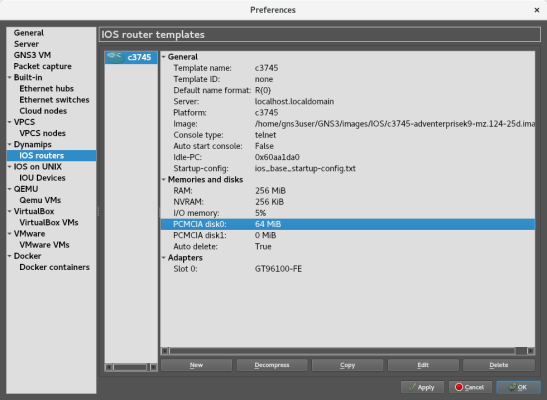
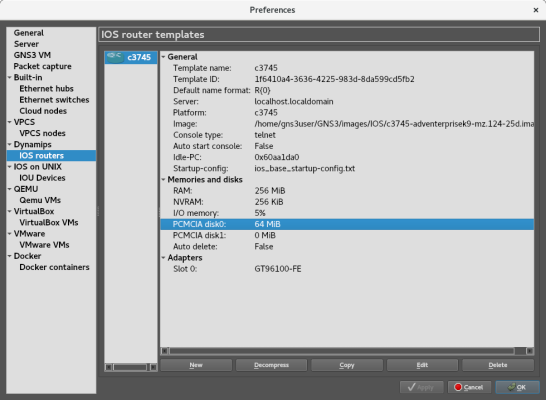
Commit to check changes to main README.md.

diff --git a/README.md b/README.md
@@ -26,11 +26,18 @@ However, there are some great tools, like Graphical Network Simulator-3 (GNS3), 
 
 This tutorial is broken down into three parts:
 
+- [What is GNS3?](#what-is-gns3 "What is GNS3?")
 - [Installing GNS3](#installing-gns3 "Installing GNS3")
 - [Setting up the environment](#setting-up-the-environment "Setting up the environment")
 - [Your First Lab](#your-first-lab "Your First Lab")
 
 >**NOTE** - Thanks to [David Bombal](https://davidbombal.com/), [Paul Browning](https://www.amazon.com/101-Labs-CompTIA-Paul-Browning/dp/1726841294 "101 Labs"), and many other incredible network gurus and coders (you know who you are :thumbsup: ).
+
+-----
+
+## What is GNS3?
+
+Graphical Network Simulator-3 is a network software emulator, written in Python. It replicates the hardware and software features of real devices in a virtual environment. It was first released in 2008, and it has been downloaded over 18 million times. While it is free and open source (GNU GPL, i.e., "copyleft"), with an active community of over two million members, it is also used by companies such as Google, NASA, AT&T, and Walmart.
 
 -----
 
@@ -350,7 +357,7 @@ A Setup wizard will appear. Select **Run appliances on my local computer** and c
 
 ![Setup Wizard](img/a05.png)
 
->**NOTE** - If a **Project** window appears instead, click on **Cancel** and scroll down to the :eyes: [below](this-will-return-you-to-the-main-gns3-graphical-user-interface).
+>**NOTE** - If a **Project** window appears instead, click on **Cancel** and scroll down to the :eyes: <a id="eyes">below</a>.
 
 In **Local sever configuration**, under **Host binding**, select the bridge's IP address (```192.168.1.1```):
 
@@ -364,7 +371,7 @@ At the **Summary** pop-up dialog, click **Finish**:
 
 ![Setup Wizard Summary](img/a08.png)
 
-> :eyes: - This will return you to the main GNS3 Graphical User Interface (GUI):
+> :eyes: - <span id="eyes">This will return you to the main GNS3 Graphical User Interface (GUI)<span>:
 
 ![Main Screen](img/a09.png)
 
@@ -380,11 +387,7 @@ However, before you start on the lab, you need to make some adjustments. From th
 
 ---
 
-Now you need to add a device. For our initial labs, you will use the Cisco 3745 Multi-Service Access Router. The Cisco 3745 is a customizable router, capable of supporting different network configurations, based on the selected cards and modules.
-
->**NOTE** - For the labs, you will use images for the Cisco 3745 Multi-Service Access Router, with Advanced Enterprise Services, and the Cisco 7206 VXR Router. Both are older routers, but their IOS's are available for download, and they are sufficient for our labs.
->
->Here are the names of the files, their hashes, and some additional information:
+Now you need to add a device. For our initial labs, you will use the Cisco 3745 Multi-Service Access Router, with Advanced Enterprise Services. The Cisco 3745 is a customizable router, capable of supporting different network configurations, based on which cards or modules are installed. It is an older router, but its IOS is available for download, and it is sufficient for conducting our labs. Here is some additional information:
 >
 >- **Cisco 3745 Multi-Service Access Router:**
 >   * IOS version 12.4.25d (Mainline):
@@ -395,15 +398,6 @@ Now you need to add a device. For our initial labs, you will use the Cisco 3745 
 >   * End-of-Sale Date: 2007-03-27
 >   * End-of-Support Date: 2012-03-27
 >   * IOS End-of-Support Date: 2016-01-31
->- **Cisco 7206 VXR 6-Slot Router:**
->   * IOS version 12.4.25g (Mainline):
->   * File Name: c7200-a3jk9s-mz.124-25g.bin
->   * MD5: 3a78cb61831b3ef1530f7402f5986556
->   * Flash Memory: 64 MB
->   * DRAM: 256MB
->   * End-of-Sale Date: 2012-09-29 
->   * End-of-Support Date: 2017-09-30
->   * IOS End-of-Support Date: 2016-01-31
 
 Here is the back of a Cisco 3745 Router:
 
@@ -412,10 +406,10 @@ Here is the back of a Cisco 3745 Router:
  In between the power supply modules, from top to bottom, the 3745 has:
  
  - Three (3) WAN interface card (WIC) slots (uncovered in the image).
- - Built-in Modules:
-     - A console (labeled in light blue) and an auxiliary port (labeled in black) on the left. By the way, when you interact with the router directly in a GNS3 console, you are using a simulated connection to the Console port.
+ - Built-in Modules (from right-to-left):
+     - A console port (labeled in light blue) and an auxiliary port (labeled in black). By the way, when you interact with the router directly in a GNS3 console, you are using a simulated connection to the Console port.
      - An optional CompactFlash (CF) memory card slot in the center, which can use 32, 64, and 128 MiB memory cards. This card will correspond to Personal Computer Memory Card International Association (PCMCIA) disk1, accessible as ```slot0:``` in the IOS; more about this later.
-     - The **GT96100-FE Network Adapter**, with two (2) built-in FastEthernet interfaces (GT96100-FE), which correspond to FastEthernet 0/0 and 0/1 (labeled in yellow), on the right.
+     - The **GT96100-FE Network Adapter**, with two (2) built-in FastEthernet interfaces (GT96100-FE), which correspond to FastEthernet 0/0 and 0/1 (labeled in yellow).
 - Four (4) network adapter module slots (two uncovered and two covered in the image).
 
 I will explain how to fill in the slots later in this tutorial.
@@ -468,7 +462,7 @@ Practice filling open slots with an adapter, but ***DO NOT CLICK ON NEXT!***:
 
 ![Network Adapters](img/a20b.png)
 
-Did you notice that, aside from the built-in GT96100-FE adapter, there are six open slots, but you can only use four of them? That is because the 3745 only has four open slots for network adapters.
+Did you notice that, aside from the built-in GT96100-FE adapter, there are six open slots, but you can only use four of them? That is because the 3745 only has four open slots for network adapters, as shown in the picture above.
 
 Aside from the built-in network adapter, you will not need any additional network adapters yet, so empty all the slots except for **slot 0** (GNS3 will not let you delete it anyway). When complete, click on **Next >**:
 
@@ -488,15 +482,7 @@ For WAN Interface Cards (WICs), you have three slots, but only two options:
 
 ![WIC-2T Two port serial module](img/wic-2t.png)
  
-Go ahead and practice placing a WIC in open slots, but ***DO NOT CLICK ON NEXT!***:
-
-![WIC Modules](img/a21b.png)
-
-This time, since the 3745 has three WIC slots, you can populate each of them with different modules, or even the same module.
-
-You will not need any WIC modules yet, so empty all the slots and click on **Next >**:
-
-![WIC Modules](img/a21a.png)
+You will not need any WIC modules yet, so make sure all the slots are empty, and click on **Next >**.
 
 >**NOTE** - For more information on these modules and other configurations, check out the [Cisco 3700 Series Router Hardware](https://www.cisco.com/web/ANZ/cpp/refguide/hview/router/3700.html "
 CISCO 3700 Series Router Hardware View") page. If the site becomes unavailable, I have also included [a pdf copy here.](/3700.pdf "CISCO 3700 Series Router Hardware View")
@@ -514,11 +500,13 @@ Click on **Edit** to increase the device's flash memory from 0 to 64 MiB:
 
 ![Preferences](img/a23.png)
 
-In the **Dynamips IOS router template configuration** pop-up dialog, select the **Memories and disks** tab. Set the PCMCIA disk0 to 64 MiB. While you are here, make sure **Automatically delete NVRAM and disk files** is unselected; otherwise, you will have to reformat the flash memory each time you reload the device. When you are done, click **OK** to continue:
+In the **Dynamips IOS router template configuration** pop-up dialog, select the **Memories and disks** tab. Set the PCMCIA disk0 to 64 MiB. While you are here, make sure **Automatically delete NVRAM and disk files** is unselected; otherwise, you will have to reformat the flash memory each time you reload the device:
 
 ![Dynamips IOS router template configuration](img/a24.png)
 
-This brings you back to the template details window. Take a moment to look it over; there is some good information here, such as the name of the startup configuration file, which you will edit later:
+When you are done, click **OK** to continue.
+
+Once you return to the template details window, make sure the memory for **PCMCIA disk0** is **64 MiB** and **Auto delete** is set to **False**.
 
 ![Preferences](img/a25.png)
 
@@ -528,9 +516,9 @@ This brings you back to the template details window. Take a moment to look it ov
 
 >**Note** - If you like, check out [https://docs.gns3.com/docs/using-gns3/beginners/the-gns3-gui](https://docs.gns3.com/docs/using-gns3/beginners/the-gns3-gui "The GNS3 GUI") to learn the different parts of the GNS3 Graphical User Interface (GUI).
 
-Now that you have finished setting up your lab environment, click on **File** ->  **New blank project**, or press  <kbd>Ctrl</kbd>+<kbd>N</kbd>, to create a new project. If GNS3 is not running, enter ```gns3_run``` in a Terminal (the **Project** window should appear).
+Now that you have finished setting up your lab environment, click on **File** ->  **New blank project**, or press  <kbd>Ctrl</kbd>+<kbd>N</kbd>, to create a new project. If GNS3 is not running, enter ```gns3_run``` in a Terminal.
 
-A pop-up dialog will appear, asking you to create a new project. Enter ```Automation``` in the ***Name*** textbox and click the **OK** button.
+The **Project** pop-up dialog will appear, asking you to create a new project. Enter ```Automation``` in the ***Name*** textbox and click the **OK** button.
 
 ![Project Dialog](img/a10.png)
 
@@ -540,9 +528,9 @@ From the GNS3 Toolbar, click **View** -> **Docks** -> **All templates** (or **Al
 
 All the devices you can use in your lab will appear in a docked window next to the Devices Toolbar on the right.
 
->**NOTE** - In the **View** dropdown menu, there are several options that will make your life easier. I recommend both **Snap to grid**, which will keep your workspace orderly, and **Show/Hide interface labels**, which will allow you to see your connection points at a glance.
+>**NOTE** - In the **View** dropdown menu, there are several options that will make your life easier. I recommend both **Snap to grid**, which will keep your Workspace orderly, and **Show/Hide interface labels**, which will allow you to see your connection points at a glance.
 
-You may also use the "Browse all devices" to see all your available devices:
+You may also click the "Browse all devices" icon to see all of your available devices:
 
 ![All devices](img/a26i.png)
 
@@ -570,13 +558,13 @@ Let us fix that. Click on the green **Play** icon in the GNS3 Toolbar above the 
 
 ![Confirm Start All](img/a31.png)
 
-You will see that all the nodes are now green, both in the Workspace and the Topology Summary in the top left-hand corner:
+You will see that all the nodes are now green, both in the Workspace and the **Topology Summary** in the top left-hand corner:
 
 ![All Devices Started](img/a32.png)
 
-By the way, note the console information for R1 in the **Topology Summary** in the top left-hand corner. It tells us that, even though the device does not have an IP address yet, you can connect to R1 using Telnet through the Console port on the back of the 3745 using port 5001.
+By the way, note the console information for **R1** in the **Topology Summary** in the top left-hand corner. It tells us that, even though the device does not have an IP address yet, you can connect to **R1** using Telnet through the Console port on the back of the 3745 using port 5001.
 
-However, your port number may be different. If the Console port number is difficult to see, you can get the information by expanding the dock or right-clicking on the R1 node and selecting **Show node information**:
+However, your port number may be different. If the Console port number is difficult to see, you can get the information by expanding the dock or right-clicking on the **R1** node and selecting **Show node information**:
 
 ![Show node information](img/a35.png)
 
@@ -590,13 +578,13 @@ The pop-up dialog has a lot of good information, including which port number the
 
 Now, before we begin to code, you will perform a dry run by entering the commands directly in a console terminal, as you would do with a real device.
 
->**NOTE** - Normally, you cannot Telnet or Secure Shell (SSH) into a device until you assign the device an IP address. To do solve this chicken-or-egg problem, you would:
+>**NOTE** - Normally, you cannot Telnet into a device until you assign the device an IP address. To do solve this chicken-or-egg problem, you would:
 >
 >- Connect an RS232 Port to RJ45 Ethernet cable from the host to the device's Console port.
->- Open a terminal emulator, such as PuTTY or minicom, and connect to the device through the host's serial port 0 (i.e., /dev/ttyS0) at 9600 baud, 8 data bits, no parity, and 1 stop bit (9600 8N1).
+>- Open a terminal emulator, such as PuTTY or minicom, and connect to the device through the host's serial port 0 (e.g., ```/dev/ttyS0```, ```/dev/ttyACM0```, etc.) at 9600 baud, 8 data bits, no parity, and 1 stop bit (9600 8N1).
 >- Enter the necessary commands to set the IP address.
 > 
->However, I do not know how to do this in GNS3, so you will be simulating that connection using the gateway and the Console port number.
+>However, GNS3 simulates this connection through the server gateway and the Console port number. By the way, you will not be able to open a Secure Shell (SSH) connection using this method.
 
 Open a new Terminal and Telnet into the device by inputting the following command:
 
@@ -662,7 +650,7 @@ Type "help", "copyright", "credits" or "license" for more information.
 >>> 
 ```
 
-In Python, you will interact with the device using the pexpect module. Pexpect creates or "spawns" a session with another device, known as a "child". Using commands such as  ```sendline``` and ```expect```, you can interact with the device through the child.
+In Python, you will interact with the device using the **Pexpect** module. Pexpect creates or "spawns" a session with another device, known as a "child". Using commands such as  ```sendline``` and ```expect```, you can interact with the device through the child.
 
 First, at the ```>>>``` prompt, import the module into the interpreter:
 
@@ -672,7 +660,7 @@ Second, create a Telnet child process:
 
 ```>>> child = pexpect.spawn("telnet 192.168.1.1 5001")```
 
-If you have looked at previous boot-up messages, you will notice that the string, "Press RETURN to get started", always appears after reloading the device. Therefore, this is a good message to look for to make sure you are connected:
+Looking at previous boot-up messages, you may have noticed that the string, "Press RETURN to get started", always appears after reloading the device. Therefore, this is a good message to look for to make sure you are connected:
 
 ```>>> child.expect("Press RETURN to get started")```
 
@@ -680,11 +668,11 @@ After a few seconds, you will see the following output:
 
 ```0```
 
-0? What does that mean? The Pexpect expect class collects the output of the child during the spawn call. It takes your search string, converts it to a list, and scrapes the output for any text that matches the items in the list. If it finds a match, it returns the index of that match, and since you only have one search string, the index will be 0. If it does not find a match within 30 seconds (the default setting), it will return a -1 and a TIMEOUT exception.
+0? What does that mean? The Pexpect expect class collects the output of the child during the spawn call. It takes lists of search strings and scrapes the output for any text that matches the items in the list. If it finds a match, it returns the index of that match, and since you only have one search string, the index will be 0 (Pexpect will convert single strings to a list). If it does not find a match within 30 seconds (the default setting), it will return a -1 and a TIMEOUT exception.
 
 Pexpect will begin the next search right after the last match. This prevents Pexpect from continuing to use the same match, over and over again. 
 
-Right now, do what the prompt asks, by sending a carriage return (pexpect.sendline adds the line feed (\n)):
+Right now, do what the prompt asks, by sending a carriage return (pexpect.sendline adds the line feed (`\n`) to complete the CRLF sequence):
 
 ```>>> child.sendline("\r")```
 
@@ -694,15 +682,13 @@ After a few seconds, you will see the following output:
 
 The return value states that two characters were successfully sent to the child: '\r' and'\n'. That is good, and when we look for our search string of ```R1#``` in the output, we should expect to find the default Privilege EXEC Mode prompt:
 
-```>>> child.expect("R1#")0
-```
+```>>> child.expect("R1#")0```
 
 >**NOTE** - Always try to match each send with an expect. If you do not, Pexpect may look for the search string in the wrong place.
 
 Next, as you did earlier, get the device's hardware and software information. Send the command ```show version``` (14 characters, including the newline, will be sent):
 
-```>>> child.sendline("show version\r")14
-```
+```>>> child.sendline("show version\r")14```
 
 The ```show version``` command produces too much output for one Telnet screen, so it pauses the output midway with a ```--More--``` prompt, so you can examine the first part before proceeding to the second. Therefore, this time, you will expect several responses and capture the index of the response:
 
